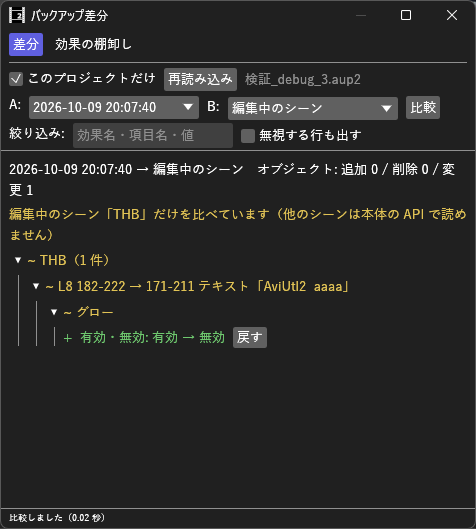
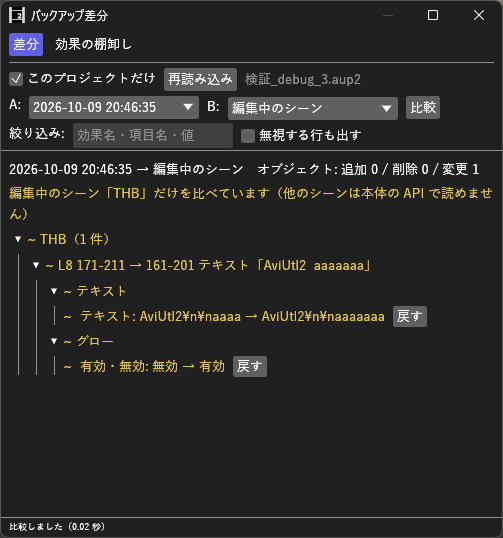
BackupDiff_H v0.3.1: 有効・無効の切り替えを変更（~）で出す
見本画像も v0.3.1 の画面に差し替える。

diff --git a/src/diff.rs b/src/diff.rs
@@ -293,11 +293,12 @@ fn diff_entries(a: &Entries, b: &Entries, ignore: impl Fn(&str) -> bool) -> Vec<
 fn diff_effect_items(a: &Effect, b: &Effect, opt: Options) -> Vec<ItemChange> {
     let ignore = |k: &str| !opt.show_ignored && ignored_effect_key(k);
     let mut items = diff_entries(&a.entries, &b.entries, ignore);
-    // effect.disable が無いのは有効（=0）と同じ
-    items.retain(|c| {
-        !(c.key == "effect.disable"
-            && c.old.as_deref().unwrap_or("0") == c.new.as_deref().unwrap_or("0"))
-    });
+    // effect.disable が無いのは有効（=0）と同じ。無い側を 0 で埋め、追加・削除ではなく変更として出す
+    for c in items.iter_mut().filter(|c| c.key == "effect.disable") {
+        c.old.get_or_insert_with(|| "0".into());
+        c.new.get_or_insert_with(|| "0".into());
+    }
+    items.retain(|c| !(c.key == "effect.disable" && c.old == c.new));
     items
 }
 
@@ -701,7 +702,11 @@ mod tests {
         let r = run(&base(), &b);
         let o = only_object(&r);
         assert_eq!(o.effects.len(), 1);
-        assert_eq!(o.effects[0].items, [ItemChange { key: "effect.disable".into(), old: None, new: Some("1".into()) }]);
+        assert_eq!(o.effects[0].items, [ItemChange { key: "effect.disable".into(), old: Some("0".into()), new: Some("1".into()) }]);
+        assert_eq!(o.effects[0].items[0].mark(), Mark::Changed, "行が増えても、有効・無効の切り替えは変更（~）");
+        // 戻すときも同じ: 無効 → 有効（行が消える）も変更
+        let back = run(&b, &base());
+        assert_eq!(only_object(&back).effects[0].items[0].mark(), Mark::Changed);
         // 明示的な 0 と、行が無いのは同じ
         let mut c = base();
         c[2].effects[1].1.insert(0, ("effect.disable", "0"));

diff --git a/README.md b/README.md
@@ -6,7 +6,7 @@
 編集中のシーンと比べて前の値に戻す、ある項目の移り変わりを見る、どの効果をどれだけ使っているかを数える、もできます。
 「さっきまでの値はいくつだったか」「いつからこの効果が無いか」を、バックアップを開き直さずに調べられます。
 
-- **バージョン:** 0.3.0（2026-10-09: 効果の棚卸しを足した。0.2.0 で編集中のシーンと比べて値を戻す・項目の履歴）
+- **バージョン:** 0.3.1（2026-10-09: 有効・無効の切り替えが `+` で出ていたのを `~` に直した。0.3.0 で効果の棚卸し、0.2.0 で値を戻す・項目の履歴）
 - **作者:** by HexBrowns
 - **必要環境:** AviUtl2 **2.1.11** 以上
 
@@ -22,7 +22,7 @@
 
 ## 導入
 
-1. [Releases](https://github.com/HexBrowns/BackupDiff_H/releases) から `HexBrowns.BackupDiff_H-v0.3.0.au2pkg.zip` をダウンロードし、AviUtl2 のプレビューへドラッグ&ドロップする
+1. [Releases](https://github.com/HexBrowns/BackupDiff_H/releases) から `HexBrowns.BackupDiff_H-v0.3.1.au2pkg.zip` をダウンロードし、AviUtl2 のプレビューへドラッグ&ドロップする
    （手で置くなら、中の `Plugin` フォルダをデータフォルダ `C:\ProgramData\aviutl2` へコピーする）
 2. AviUtl2 を再起動する
 3. **表示** メニュー → **バックアップ差分** でウィンドウを開く

diff --git a/DEVELOPMENT.md b/DEVELOPMENT.md
@@ -3,7 +3,7 @@
 AviUtl2 の自動バックアップ（`Backup/AutoBackup_*.aup2`）を 2 つ選び、オブジェクトを対応付けてから
 効果・設定値の違いを一覧にする汎用プラグイン（Rust 製 `.aux2`）。元ネタは WinMerge。
 
-- **バージョン:** 0.3.0（aviutl2-rs / aviutl2-eframe **0.48**。本体 **2.1.11** 以上）
+- **バージョン:** 0.3.1（aviutl2-rs / aviutl2-eframe **0.48**。本体 **2.1.11** 以上）
 - **仕様:** [`AI/specifications/20261005_BackupDiff_H_spec.md`](../../specifications/20261005_BackupDiff_H_spec.md)（第 3 段階まで）
 
 ## ビルド
